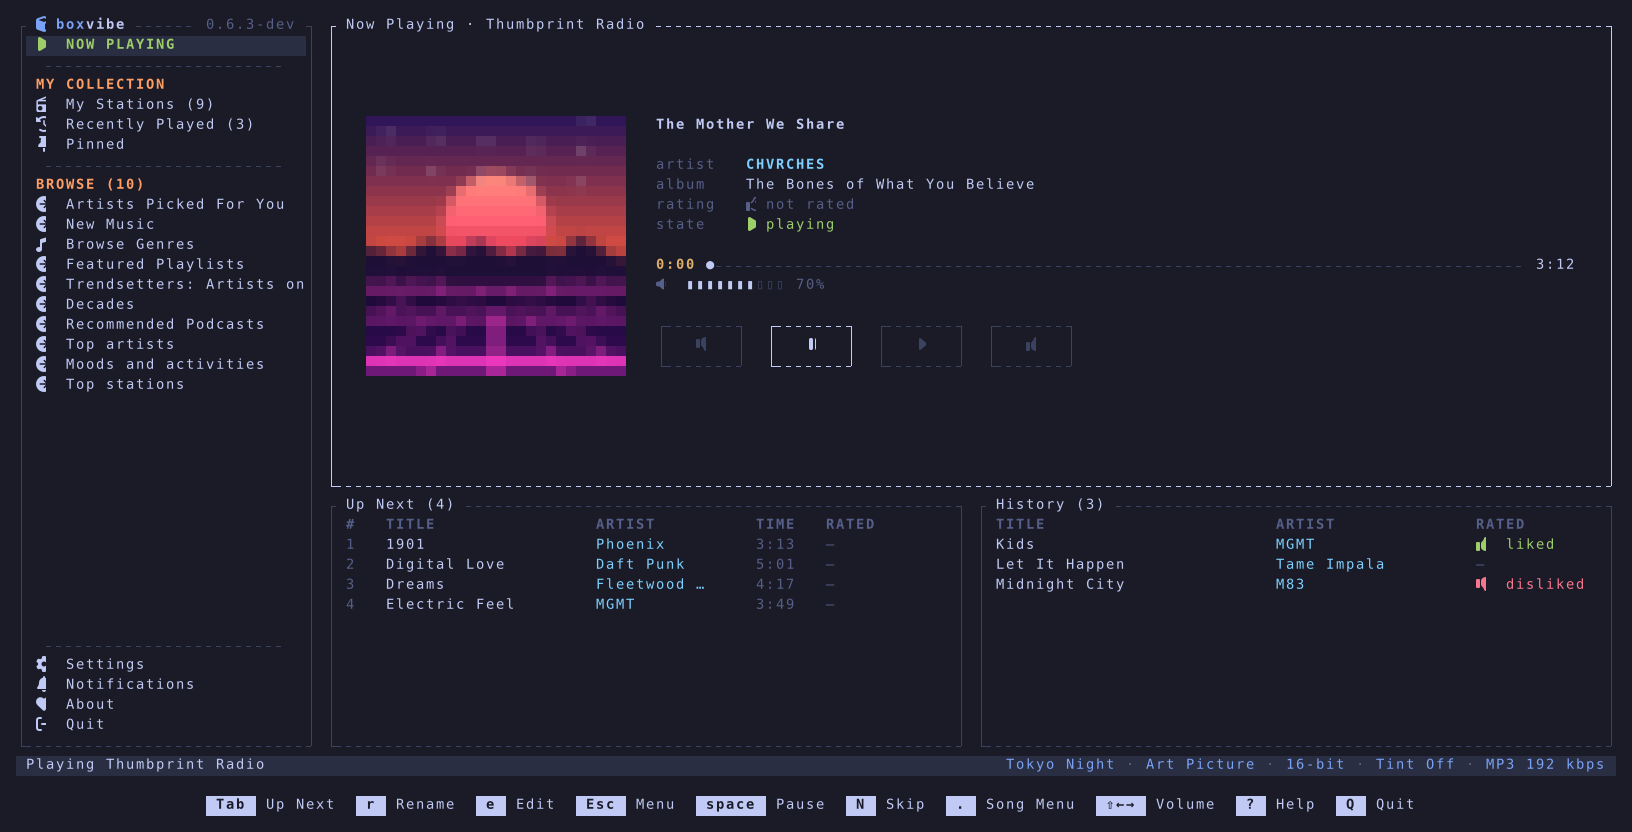
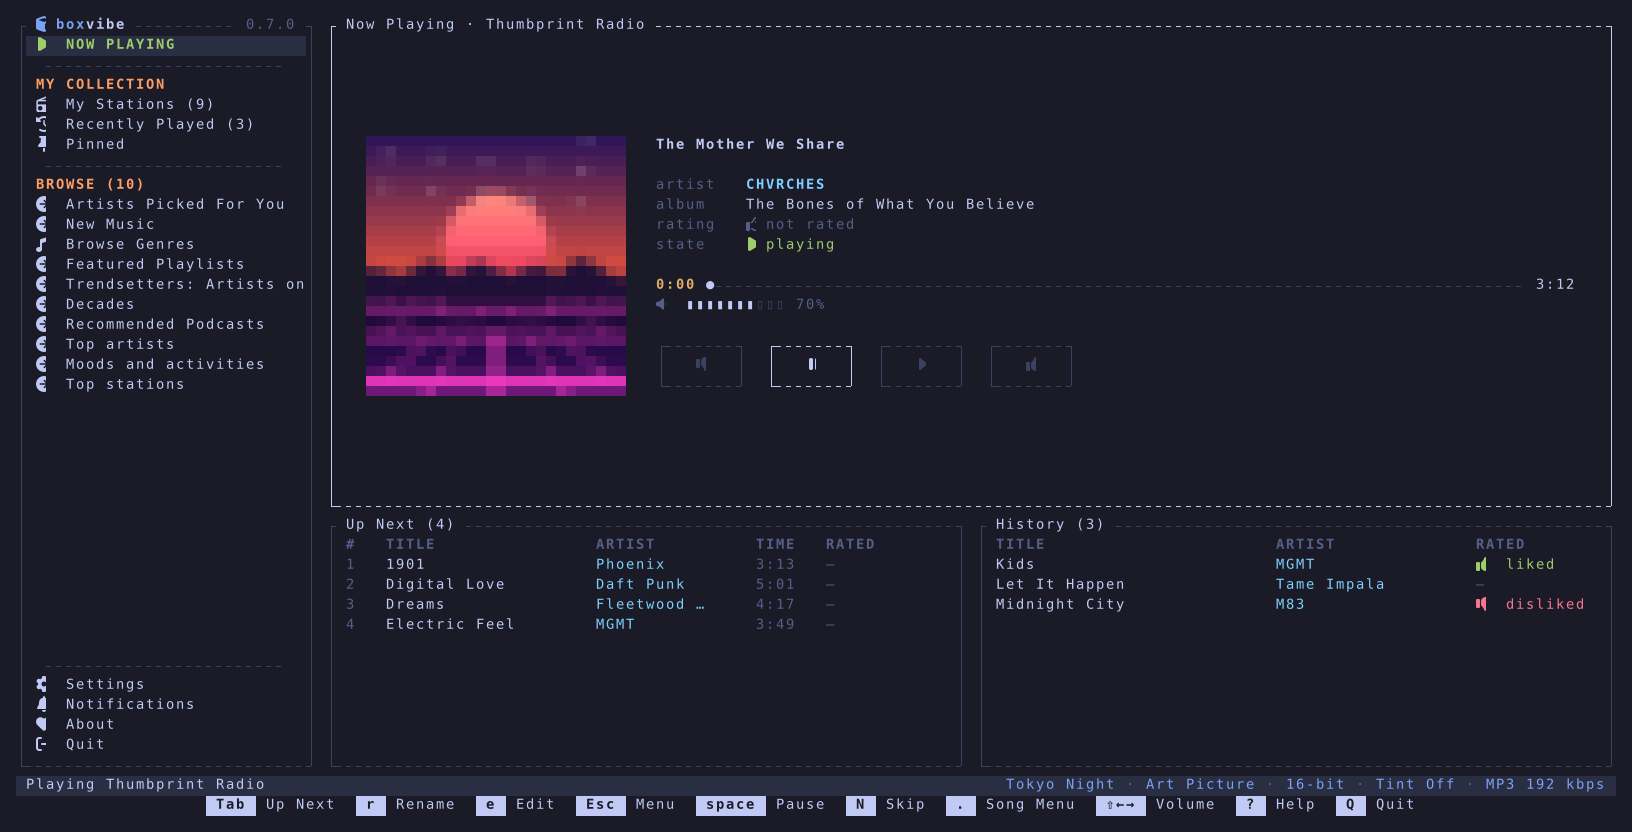
Revert "Leave a blank row between the status bar and the key bar"
This reverts commit 5706ae88bff4fcbd4684d8233011e97a825c7de0.

diff --git a/src/ui/tests.rs b/src/ui/tests.rs
@@ -550,9 +550,7 @@ fn favorites_in_the_menu_line_up_and_the_add_row_sits_over_the_radio_icons() {
             app.config.ui.favorites.push(Favorite { id: st.id.clone(), name: st.name.clone() });
         }
         app.config.ui.favorites.push(Favorite { id: "gone".into(), name: "Quiet Storm".into() });
-        // Two rows taller than the old 34: the bar gap costs one row of content,
-        // and all four favorites have to stay on screen for this to line them up.
-        let buffer = screen(&mut app, 120, 36).1;
+        let buffer = screen(&mut app, 120, 34).1;
         let at: Vec<_> = ["Today's Hits", "M83 Radio", "Shuffle", "Quiet Storm"]
             .iter()
             .map(|n| (*n, name_column(&buffer, n, 1, 29)))
@@ -604,7 +602,7 @@ fn the_genre_popup_explains_the_problem_and_both_icons() {
         assert!(g.contains(ic.genre_station) && g[..g.find("Genre station: made").unwrap()].contains(ic.genre_station));
         assert!(o.contains(ic.own_station) && o[..o.find("Your own station").unwrap()].contains(ic.own_station));
         // The bar at the bottom still has the error, and its keys.
-        assert!(lines[31].contains("Pandora doesn't let you rename “Today's Hits”"), "{}", lines[31]);
+        assert!(lines[32].contains("Pandora doesn't let you rename “Today's Hits”"), "{}", lines[32]);
         assert!(
             lines[33].contains("Space") && lines[33].contains("Enter") && lines[33].contains("Esc"),
             "{}",
@@ -1406,25 +1404,6 @@ fn shift_q_shows_the_quit_box_and_says_q_again_quits() {
 }
 
 #[test]
-fn a_blank_row_separates_the_status_bar_from_the_key_bar() {
-    let mut app = demo();
-    app.config.ui.icons = crate::config::IconSet::Unicode;
-    app.status = "hello status".into();
-    for (cols, rows) in [(120u16, 36u16), (80, 24), (200, 50)] {
-        let (lines, _) = screen(&mut app, cols, rows);
-        let last = rows as usize - 1;
-        // The key bar is the bottom row and the status bar sits BAR_GAP above it.
-        assert!(lines[last].contains("Now Playing") || lines[last].contains("Quit"), "{cols}x{rows}: {}", lines[last]);
-        let status = last - usize::from(BAR_GAP) - 1;
-        assert!(lines[status].starts_with(" hello status"), "{cols}x{rows}: {}", lines[status]);
-        // Every row between them is blank, so the two bars do not read as one block.
-        for (y, line) in lines.iter().enumerate().take(last).skip(status + 1) {
-            assert!(line.trim().is_empty(), "{cols}x{rows}: row {y} is not blank: {line:?}");
-        }
-    }
-}
-
-#[test]
 fn the_logo_and_version_sit_on_the_menus_top_border() {
     let mut app = demo();
     app.config.ui.icons = crate::config::IconSet::Unicode;
@@ -1437,7 +1416,7 @@ fn the_logo_and_version_sit_on_the_menus_top_border() {
     assert!(top[..menu_end + '┐'.len_utf8()].ends_with(&version), "{top}");
     assert!(top.contains("Now Playing"), "no header row: Now Playing's border is the first row: {top}");
     assert!(!lines.iter().any(|l| l.contains("demo@") || l.contains("not logged in ")));
-    assert!(lines[33].starts_with(" hello status"), "status bar above the keys: {}", lines[33]);
+    assert!(lines[34].starts_with(" hello status"), "status bar above the keys: {}", lines[34]);
     // "box" and its icon blue, "vibe" the text colour.
     let p = app.palette;
     let x = top.chars().position(|c| c == 'b').unwrap() as u16;
@@ -1512,8 +1491,8 @@ fn now_playing_heads_the_menu_with_an_inset_rule() {
 fn song_panes_fit_ten_rows_and_now_playing_takes_the_rest() {
     let mut app = demo();
     // Side by side: Up Next and History are SONG_PANE (13) tall, Now Playing the rest.
-    for (rows, want) in [(36, 20), (50, 34), (20, 11)] {
-        assert_eq!(now_playing_height(rows - 3, false), want, "{rows} rows");
+    for (rows, want) in [(36, 21), (50, 35), (20, 11)] {
+        assert_eq!(now_playing_height(rows - 2, false), want, "{rows} rows");
         let (lines, _) = screen(&mut app, 120, rows);
         let up = lines.iter().position(|l| l.contains("Up Next (")).expect("Up Next");
         assert_eq!(up, usize::from(want), "Up Next right under Now Playing");
@@ -1718,16 +1697,16 @@ fn the_account_sits_at_the_right_of_the_status_bar() {
     app.status = "hello status".into();
     app.session = Session::LoggedIn;
     let (lines, buffer) = screen(&mut app, 120, 36);
-    let bar = &lines[33];
+    let bar = &lines[34];
     assert!(bar.starts_with(" hello status"), "{bar}");
     assert!(bar.trim_end().ends_with("Logged In As: toby@example.com"), "{bar}");
     assert!(bar.ends_with("Logged In As: toby@example.com "), "one space before the edge: {bar:?}");
     let x = (bar.chars().count() - "Logged In As: toby@example.com ".len()) as u16;
-    assert_eq!(buffer[(x, 33)].fg, app.palette.blue, "tubevibe's account colour");
+    assert_eq!(buffer[(x, 34)].fg, app.palette.blue, "tubevibe's account colour");
     // Narrow, with a long status: both cut, never overlapping.
     app.status = "a very long status message that goes on and on and on".into();
     let (lines, _) = screen(&mut app, 40, 36);
-    let bar = &lines[33];
+    let bar = &lines[34];
     assert!(bar.contains('…') && bar.contains('@'), "{bar}");
     assert!(bar.trim_end().ends_with("toby@example.com"), "narrow: just the email, whole: {bar}");
     assert!(!bar.contains("Logged In As"), "{bar}");
@@ -1737,7 +1716,7 @@ fn the_account_sits_at_the_right_of_the_status_bar() {
     // Logged out: nothing on the right.
     app.session = Session::LoggedOut;
     let (lines, _) = screen(&mut app, 120, 36);
-    assert!(!lines[33].contains("toby@"), "{}", lines[33]);
+    assert!(!lines[34].contains("toby@"), "{}", lines[34]);
 }
 
 #[test]
@@ -1751,7 +1730,7 @@ fn the_status_bar_shows_the_look_and_the_sleep_timer_left_of_the_account_and_dro
     app.config.ui.art_tint = crate::config::ArtTint::Duotone;
     app.session = Session::LoggedIn;
     app.status = "hi".into();
-    let bar = screen(&mut app, 200, 36).0[33].clone();
+    let bar = screen(&mut app, 200, 36).0[34].clone();
     assert!(
         bar.trim_end()
             .ends_with("Gruvbox · Art Picture · 8-bit · Tint Duotone · MP3 192 kbps · Logged In As: toby@example.com"),
@@ -1759,21 +1738,21 @@ fn the_status_bar_shows_the_look_and_the_sleep_timer_left_of_the_account_and_dro
     );
     // The look is in the account's colour; the separators stay muted.
     let (lines, buffer) = screen(&mut app, 200, 36);
-    let col = |s: &str| lines[33].chars().take(lines[33].find(s).unwrap()).count() as u16;
+    let col = |s: &str| lines[34].chars().take(lines[34].find(s).unwrap()).count() as u16;
     for label in ["Gruvbox", "Art Picture", "8-bit", "Tint Duotone", "MP3 192 kbps", "Logged In As"] {
-        assert_eq!(buffer[(col(label), 33)].fg, app.palette.blue, "{label}");
+        assert_eq!(buffer[(col(label), 34)].fg, app.palette.blue, "{label}");
     }
-    assert_eq!(buffer[(col("Gruvbox") + 8, 33)].fg, app.palette.muted);
+    assert_eq!(buffer[(col("Gruvbox") + 8, 34)].fg, app.palette.muted);
     app.sleep = Some(crate::app::Sleep::Minutes(15, std::time::Instant::now()));
-    let bar = screen(&mut app, 200, 36).0[33].clone();
+    let bar = screen(&mut app, 200, 36).0[34].clone();
     assert!(bar.contains("☾ 15:00 · Gruvbox") || bar.contains("☾ 14:59 · Gruvbox"), "{bar}");
     // Narrower: the tint goes first, then the rest of the look; the timer stays.
-    let bar = screen(&mut app, 150, 36).0[33].clone();
+    let bar = screen(&mut app, 150, 36).0[34].clone();
     assert!(bar.contains("☾ 1") && bar.contains("Logged In As") && !bar.contains("Tint"), "{bar}");
-    let bar = screen(&mut app, 96, 36).0[33].clone();
+    let bar = screen(&mut app, 96, 36).0[34].clone();
     assert!(bar.contains("☾ 1") && !bar.contains("Gruvbox") && bar.contains("toby@example.com"), "{bar}");
     app.sleep = Some(crate::app::Sleep::EndOfSong);
-    assert!(screen(&mut app, 200, 36).0[33].contains("☾ end of song"));
+    assert!(screen(&mut app, 200, 36).0[34].contains("☾ end of song"));
 }
 
 #[test]
@@ -1816,26 +1795,26 @@ fn the_status_bar_names_the_stream_left_of_the_account_and_follows_the_song() {
     app.session = Session::LoggedIn;
     app.status = "hi".into();
     // The demo songs are 192 kbps MP3.
-    let bar = screen(&mut app, 200, 36).0[33].clone();
+    let bar = screen(&mut app, 200, 36).0[34].clone();
     assert!(bar.trim_end().ends_with("MP3 192 kbps · Logged In As: toby@example.com"), "{bar}");
     // A free plan's HE-AAC: the label follows the song, not the setting.
     app.stream = Some((crate::pandora::AudioFormat::Aac, 64));
-    let bar = screen(&mut app, 200, 36).0[33].clone();
+    let bar = screen(&mut app, 200, 36).0[34].clone();
     assert!(bar.trim_end().ends_with("AAC 64 kbps · Logged In As: toby@example.com"), "{bar}");
     // A stream that did not say its bitrate names the format alone.
     app.stream = Some((crate::pandora::AudioFormat::Mp3, 0));
-    assert!(screen(&mut app, 200, 36).0[33].contains("· MP3 · Logged In As"));
+    assert!(screen(&mut app, 200, 36).0[34].contains("· MP3 · Logged In As"));
     // Nothing known yet, or an unknown format: no label at all.
     app.stream = Some((crate::pandora::AudioFormat::Unknown, 128));
-    assert!(!screen(&mut app, 200, 36).0[33].contains("kbps"));
+    assert!(!screen(&mut app, 200, 36).0[34].contains("kbps"));
     app.stream = None;
-    assert!(!screen(&mut app, 200, 36).0[33].contains("kbps"));
+    assert!(!screen(&mut app, 200, 36).0[34].contains("kbps"));
     // Narrow: the look goes before the stream, which goes before the timer.
     app.stream = Some((crate::pandora::AudioFormat::Aac, 64));
     app.sleep = Some(crate::app::Sleep::Minutes(15, std::time::Instant::now()));
-    let bar = screen(&mut app, 150, 36).0[33].clone();
+    let bar = screen(&mut app, 150, 36).0[34].clone();
     assert!(bar.contains("AAC 64 kbps") && bar.contains("☾ 1") && !bar.contains("Tint"), "{bar}");
-    let bar = screen(&mut app, 96, 36).0[33].clone();
+    let bar = screen(&mut app, 96, 36).0[34].clone();
     assert!(bar.contains("☾ 1") && bar.contains("toby@example.com") && !bar.contains("kbps"), "{bar}");
 }
 
@@ -1847,16 +1826,16 @@ fn following_omarchy_the_status_bar_names_its_theme_in_the_account_colour() {
     app.config.ui.set_theme("omarchy");
     app.omarchy_theme = Some("Tokyo Night".into());
     let (lines, buffer) = screen(&mut app, 200, 36);
-    let bar = &lines[33];
+    let bar = &lines[34];
     assert!(bar.contains("omarchy: Tokyo Night · Art"), "{bar}");
     let x = bar.chars().take(bar.find("omarchy: Tokyo").unwrap()).count() as u16;
-    assert_eq!((buffer[(x, 33)].fg, buffer[(x + 12, 33)].fg), (app.palette.blue, app.palette.blue));
+    assert_eq!((buffer[(x, 34)].fg, buffer[(x + 12, 34)].fg), (app.palette.blue, app.palette.blue));
     // Its name not known yet: just "Omarchy"; a picked theme: its own name.
     app.omarchy_theme = None;
-    assert!(screen(&mut app, 200, 36).0[33].contains("Omarchy · Art"));
+    assert!(screen(&mut app, 200, 36).0[34].contains("Omarchy · Art"));
     app.config.ui.set_theme("gruvbox");
     app.omarchy_theme = Some("Tokyo Night".into());
-    let bar = screen(&mut app, 200, 36).0[33].clone();
+    let bar = screen(&mut app, 200, 36).0[34].clone();
     assert!(bar.contains("Gruvbox · Art") && !bar.contains("omarchy:"), "{bar}");
 }
 
@@ -1923,7 +1902,7 @@ fn now_playing_art_fills_the_pane_with_info_time_and_volume_beside_it() {
     let mut app = demo();
     app.config.ui.icons = crate::config::IconSet::Unicode;
     let (lines, _) = screen(&mut app, 120, 36);
-    let rows = usize::from(now_playing_height(33, false));
+    let rows = usize::from(now_playing_height(34, false));
     let menu = |l: &String| l.chars().skip(30).collect::<String>();
     let art = app.art.last_area;
     assert_eq!(

diff --git a/src/ui.rs b/src/ui.rs
@@ -70,10 +70,6 @@ pub fn menu_width(app: &App, screen: u16) -> u16 {
 /// Blank columns between the menu and the page, so the two frames do not touch.
 pub const PANE_GAP: u16 = 1;
 
-/// Blank rows between the status bar and the key bar, so the two do not read as
-/// one block of text at the bottom of the screen.
-pub const BAR_GAP: u16 = 1;
-
 pub fn draw(frame: &mut Frame, app: &mut App) {
     BORDERS.set(app.config.ui.border_style);
     let p = app.palette;
@@ -87,13 +83,8 @@ pub fn draw(frame: &mut Frame, app: &mut App) {
         return;
     }
     let ic = icons(app.config.ui.icons);
-    let [body, status, _, keys] = Layout::vertical([
-        Constraint::Fill(1),
-        Constraint::Length(1),
-        Constraint::Length(BAR_GAP),
-        Constraint::Length(1),
-    ])
-    .areas(area);
+    let [body, status, keys] =
+        Layout::vertical([Constraint::Fill(1), Constraint::Length(1), Constraint::Length(1)]).areas(area);
     let side = menu_width(app, body.width);
     let [left, _, right] =
         Layout::horizontal([Constraint::Length(side), Constraint::Length(PANE_GAP), Constraint::Fill(1)]).areas(body);
